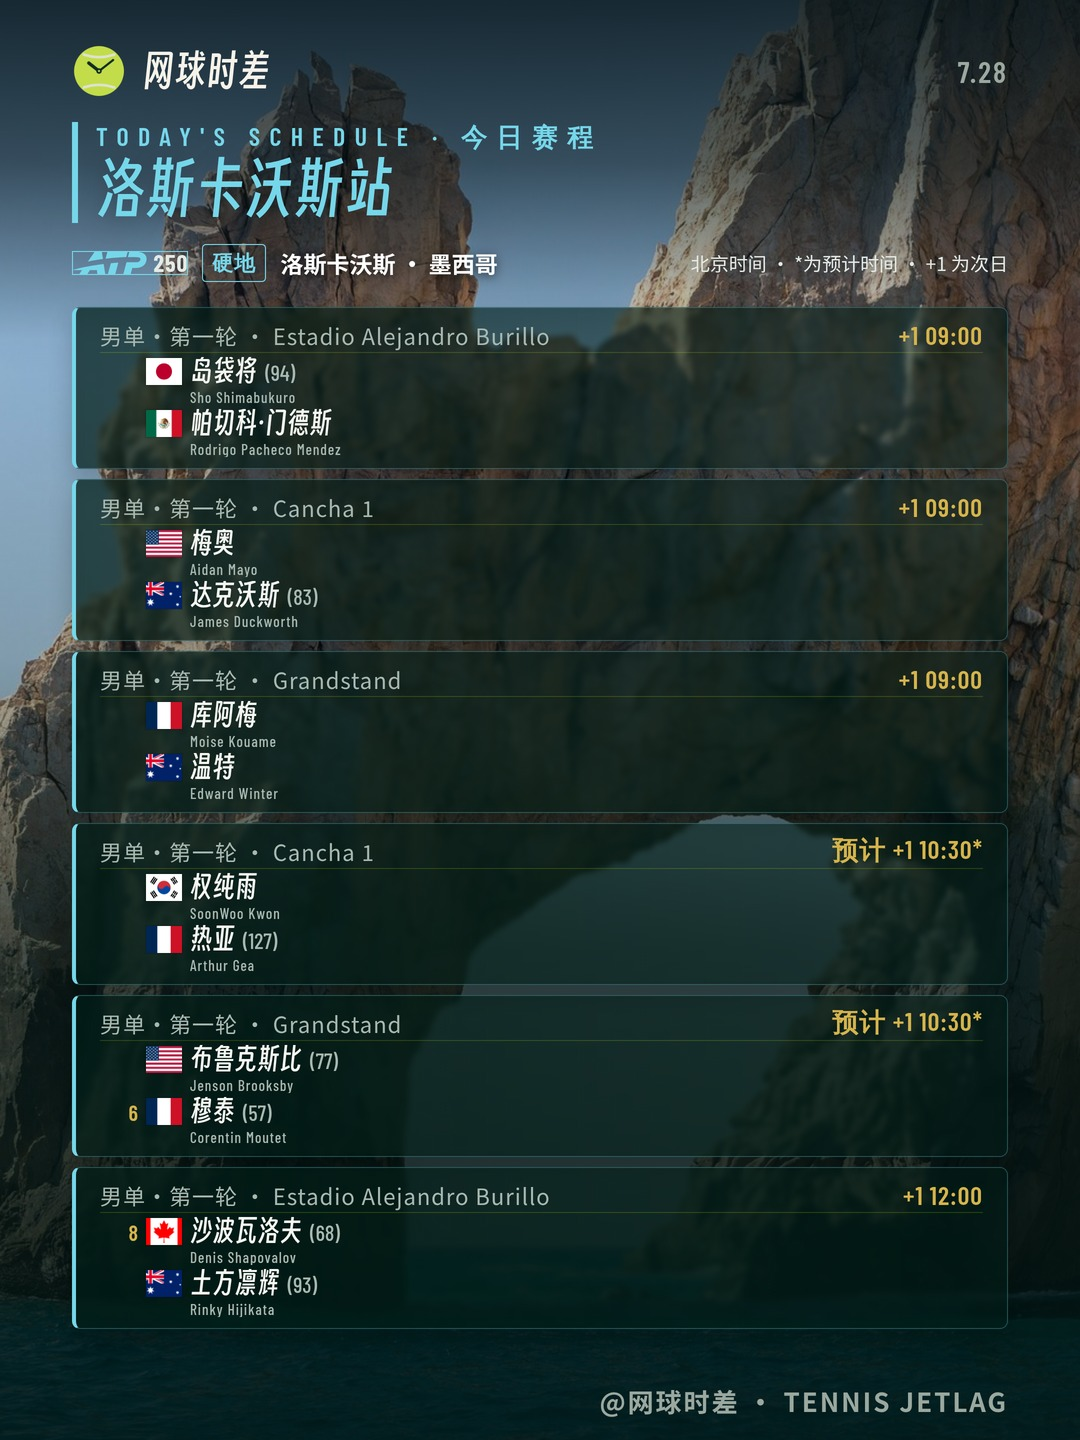
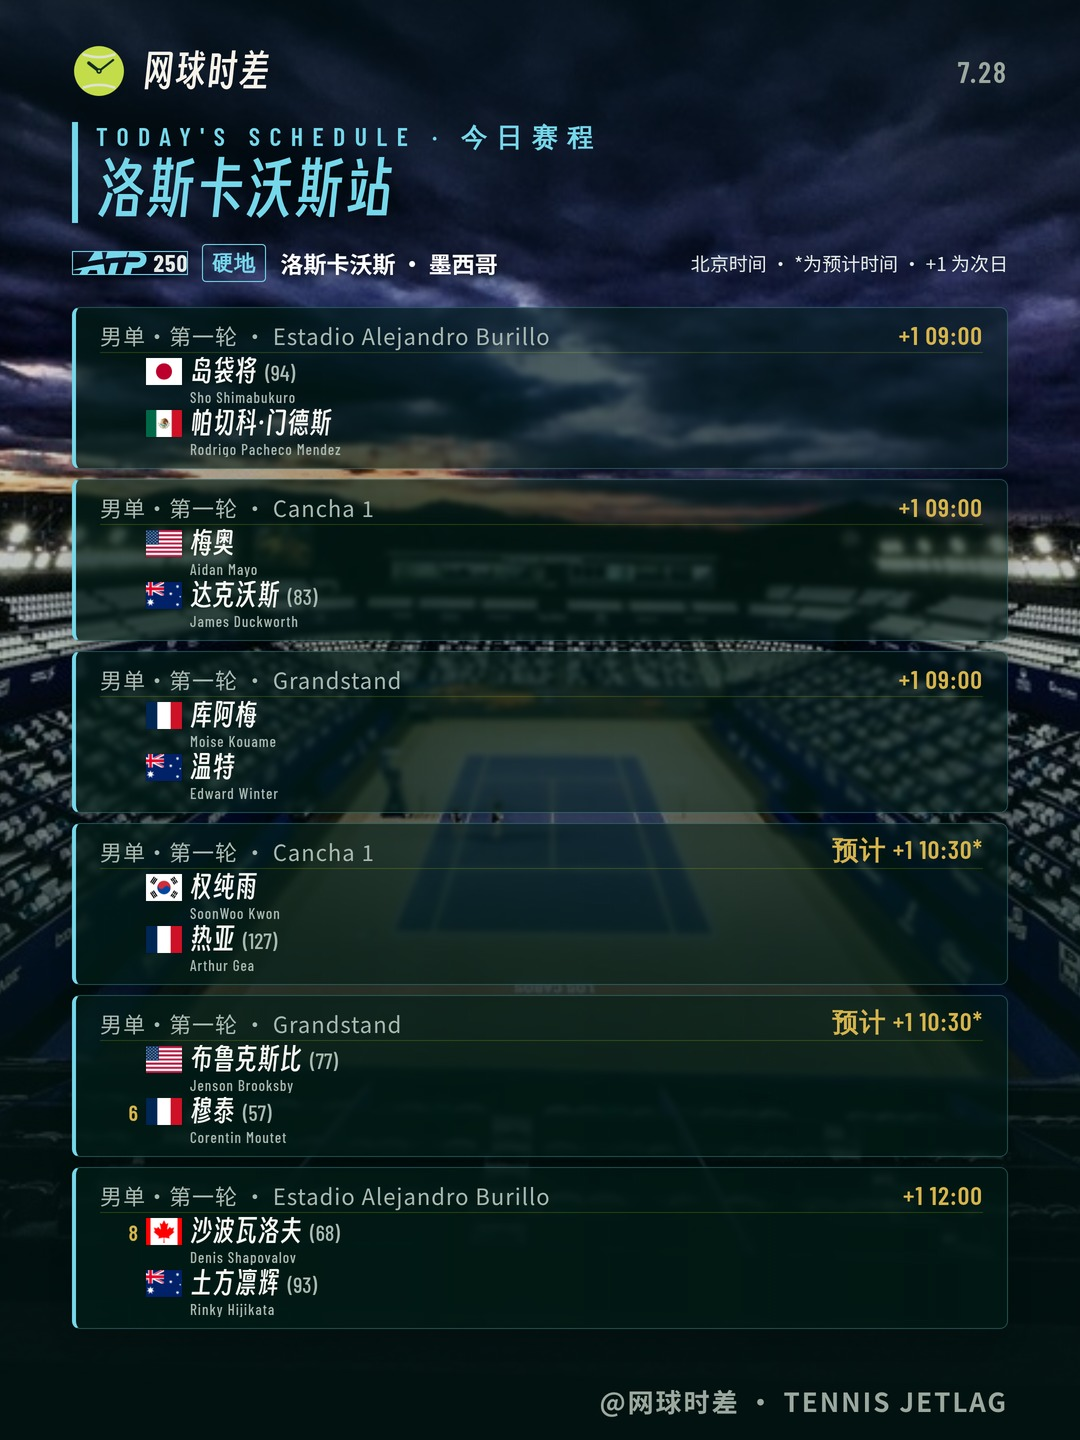
洛斯卡沃斯换成中心球场：Estadio Alejandro Burillo 黄昏实拍
原来用的是埃尔阿尔科海蚀拱——地点对、也好看，但那是海蚀拱不是球场。

球场照在赛事官网自己的媒体库里一直挂着。之前判成"没有"，是因为每一步都拿
间接信号当了结论：

- 三个域名里试错了两个。abiertoloscabos.com 是个裸的 Apache 目录索引，
  loscabosopen.com 是 Hostinger 停放页，活的是 loscabostennisopen.com
- /en/photos 和 /en/gallery 都是 404，据此判"没有图库"。它是 WordPress，
  wp-json/wp/v2/media?search= 一查就把原图连尺寸一起列出来
- 搜索词用了英文。stadium 出 3 条，estadio 出 36 条——西语站用英文搜等于
  自己把结果掐掉

选的这张（Main stadium 09）自己证明自己是哪儿：右侧赞助带印着 LOS CABOS
和 Mifel，前场地面上也刷着 LOS CABOS，放大看每个字都是清楚的——不是孟菲斯
那三张效果图的"像英文的形状"。

入库前裁掉顶部 170px：竖版卡是 cover，源图的整个高度都会铺满卡，原图上面
近一半是空云，不裁的话球场被挤到下三分之一。裁完 1200x630，特意留在
knowledge-photo 那个 1.95 wide-cover 阈值之下。

判据落在 test_sites_with_a_real_court_photo_do_not_fall_back_to_a_landmark：
地标兜底是合法的，但兜底过期了很难被发现，所以把"这两站已经找到球场照"
钉住，改 manifest 时会响。

Claude-Session: https://claude.ai/code/session_0115cwGdtMxZJrKvZZSmstvY

diff --git a/tools/fetch_venues.py b/tools/fetch_venues.py
@@ -66,10 +66,17 @@ VENUES = [
     # 的字是糊的（TOPNO / MEMPH / TENOS GEHPLIS），观众是重复贴图。带假文字
     # 的渲染图比一张真实城市照更糟。
     ("memphis-leftwich-tennis-center.jpg", None, None),
-    # 洛斯卡沃斯 ATP250：球场（Delmar 国际学校）Commons 上没有，用地标
-    # 埃尔阿尔科海蚀拱。
-    ("los-cabos-el-arco.jpg",
-     "File:El Arco, Cabo San Lucas, M\u00e9xico, 2024-12-22, DD 03.jpg", None),
+    # 洛斯卡沃斯 ATP250（Cabo Sports Complex 的 Estadio Alejandro Burillo）：
+    # 球场在 Commons 上是真空——"Cabo Sports Complex" 只命中一张波兰滑水赛的
+    # 照片，"Estadio Alejandro Burillo" 0 命中，全站与这个赛事沾边的只剩一个
+    # logo PNG。原来退而用地标埃尔阿尔科海蚀拱，但那是海蚀拱不是球场。
+    #
+    # 球场照最后在赛事官网自己的媒体库里找到，见 OFFICIAL_VENUES。顺带三条
+    # 探测经验：官网挂着三个域名，abiertoloscabos.com 是个裸的目录索引、
+    # loscabosopen.com 是 Hostinger 的停放页，活的那个是 loscabostennisopen.com；
+    # 它的 /en/photos 和 /en/gallery 都是 404，**别据此判定"没有图库"**——
+    # 它是 WordPress，wp-json/wp/v2/media?search=… 一查就把原图连尺寸一起列出来。
+    ("los-cabos-estadio-alejandro-burillo.jpg", None, None),
     # 加拿大站：原来钉的 File:RogersCup2011-2.jpg 名字里带赛事，画面却是场外
     # 的赞助商帐篷、排队人群和旗杆——不是球场也不是地标。整页拿它当底的时候
     # 一眼就看出来了。换成主球场（Sobeys Stadium / 旧称 Rexall Centre）的中央
@@ -119,6 +126,17 @@ OFFICIAL_VENUES = {
         "page": "https://photoresources.wtatennis.com/photo-resources/2026/03/02/"
                 "b47c47ce-33d6-4eb5-bc1a-a0e9bdd64ee6/"
                 "Marked_Leftwich-Tennis-Center_Courts.jpg",
+    },
+    # 画面自己把身份说死了：右侧赞助带印着 LOS CABOS（带市徽）和 Mifel，场地
+    # 前场地面上也刷着 LOS CABOS。放大看这些字都是清楚的——不是效果图那种
+    # "像英文的形状"（孟菲斯那三张栽在这儿，见上面 VENUES 的注释）。
+    # 媒体库里这就是原图，1200×800，没有更大的 size。
+    "los-cabos-estadio-alejandro-burillo.jpg": {
+        "title": "Estadio Alejandro Burillo · Cabo Sports Complex（赛事官方媒体库 Main stadium 09）",
+        "license": "unverified · 赛事官方媒体",
+        "artist": "Mifel Tennis Open by Telcel Oppo",
+        "page": "https://loscabostennisopen.com/wp-content/uploads/"
+                "2025/07/Main-stadium-09.jpg",
     },
     "estoril-centre-court.jpg": {
         "title": "Millennium Estoril Open · estadio2",

diff --git a/tests/test_venue_assets.py b/tests/test_venue_assets.py
@@ -298,6 +298,43 @@ def test_official_media_records_source_url_and_marks_licence_unverified():
         )
 
 
+def test_sites_with_a_real_court_photo_do_not_fall_back_to_a_landmark():
+    """能拿到球场照的站，manifest 不许再指回城市地标。
+
+    地标本身是合法的兜底——雅典的帕特农、维罗纳的竞技场、汉堡的天际线，
+    那几站在 Commons 和官方图库里都真的没有球场照。但**兜底一旦生效就很难
+    发现它已经过期了**：洛斯卡沃斯用埃尔阿尔科海蚀拱用了好几版，画面漂亮、
+    地点也对，只是它不是球场；直到有人问"为啥不用中心球场"才发现赛事官网
+    自己的媒体库里一直挂着 Estadio Alejandro Burillo 的实拍。
+
+    所以把"已经找到球场照"这件事钉下来。这两站的图都不在 Commons，来自赛事
+    官方媒体库，而 VENUES 里 pinned 字段是 None——也就是说 fetch_venues.py
+    重跑时不会去 Commons 重取，唯一能把它换掉的是有人改 manifest。这条测试
+    就是那时候会响的铃。
+    """
+    import json
+
+    from tennislive.render.venue_assets import ASSETS, MANIFEST
+
+    # slug -> 必须仍然是这张球场照（换成别的球场照请连同理由一起改这里）
+    court_photos = {
+        "los-cabos": "los-cabos-estadio-alejandro-burillo.jpg",
+        "memphis": "memphis-leftwich-tennis-center.jpg",
+    }
+    rows = {row["slug"]: row for row in json.loads(MANIFEST.read_text(encoding="utf-8"))}
+
+    problems = []
+    for slug, image in court_photos.items():
+        row = rows.get(slug)
+        if row is None:
+            problems.append(f"{slug}: manifest 里整条不见了")
+        elif row.get("image") != image:
+            problems.append(f"{slug}: 现在指的是 {row.get('image')}，应为球场照 {image}")
+        elif not (ASSETS / image).is_file():
+            problems.append(f"{slug}: {image} 不在盘上")
+    assert not problems, "球场照被换回地标或丢了：\n" + "\n".join(problems)
+
+
 def test_backfill_drops_credits_for_images_no_longer_on_disk():
     """图删掉之后，它的 credits 也要清掉。
 

diff --git a/CLAUDE.md b/CLAUDE.md
@@ -440,9 +440,42 @@ Ostapenko 又被写成「奥斯塔片科」（表里是**奥斯塔彭科**）发
 - **接口报 400 的时候先读它说了什么**。那个图床对无参请求返回
   `Bad parameter: At least one of width or height parameters must be specified`
   ——加个 `?width=2400` 就拿到了。只看状态码会判成"取不到"
-- **官网整站返回 200 不等于有东西**。洛斯卡沃斯官网是个 `noindex` 空壳，
-  `/en/media/news`、`/-/media/`、`/en/photos` 三个路径**全返回 200 但
-  Content-Type 是 `text/html`**——soft-404。要看 Content-Type，见下面 ATP 那条
+- **官网整站返回 200 不等于有东西**。洛斯卡沃斯当时试的那个域名是个 `noindex`
+  空壳，`/en/media/news`、`/-/media/`、`/en/photos` 三个路径**全返回 200 但
+  Content-Type 是 `text/html`**——soft-404。要看 Content-Type，见下面 ATP 那条。
+  （后来发现那根本不是活的域名，见下一条）
+
+### 图库路径 404，不等于这个站没有图库
+
+洛斯卡沃斯的球场照就这么被判过"不存在"，然后拿海蚀拱地标顶了好几版。复盘下来
+每一步都错在**拿一个间接信号当结论**：
+
+- **先确认哪个域名是活的**。这个赛事挂着三个：`abiertoloscabos.com` 是个裸的
+  Apache 目录索引（里面只有一个 20 G 的站点备份），`loscabosopen.com` 是
+  Hostinger 的停放页，活的是 `loscabostennisopen.com`。三个都返回 200
+- **`/en/photos`、`/en/gallery` 全是 404，图库却在**。它是 WordPress，
+  `wp-json/wp/v2/media?search=<词>&per_page=40` 一查就把原图连同
+  `media_details.width/height` 列出来——比在页面上抓省事得多，也顺手回答了
+  "有没有更大的尺寸"（`media_details.sizes` / `original_image`）
+- **搜索词按赛事自己的语言写**。`stadium` 只出 3 条，`estadio` 出 36 条，
+  `cancha` 出 10 条。西语站用英文词搜等于自己把结果掐掉
+
+这两条合起来还是那句：**空结果先自证是真空**。
+
+### 地标是合法的兜底，但兜底会过期
+
+有些站在 Commons 和官方图库里确实没有球场照，用城市地标是对的——雅典的帕特农、
+维罗纳的竞技场、汉堡的天际线都是这么来的。问题是**兜底一旦生效就很难被发现已经
+过期**：地点对、画面还挺好看，扫过去不觉得有什么不对，直到有人问一句"为啥不用
+中心球场"。
+
+- 兜底时**把"为什么退到地标"写在 `tools/fetch_venues.py` 的注释里**，连同当时
+  查过哪些词、命中多少条。下次有人回来看，能一眼判断这个结论还算不算数
+- 找到球场照之后**把它钉进测试**（`test_sites_with_a_real_court_photo_do_not_fall_back_to_a_landmark`），
+  否则改 manifest 时又会悄悄退回去
+- 竖版卡是 `background-size:cover`，**源图的整个高度都会铺满卡**。这张原图上面
+  近一半是天空，直接入库的话球场被挤到下三分之一、标题下面全是空云。裁掉顶部
+  170px 之后球场回到画面中央——**先裁再入库**，和短片那条是同一条
 
 ### 画出来的那一屏，也要够大够直观
 
